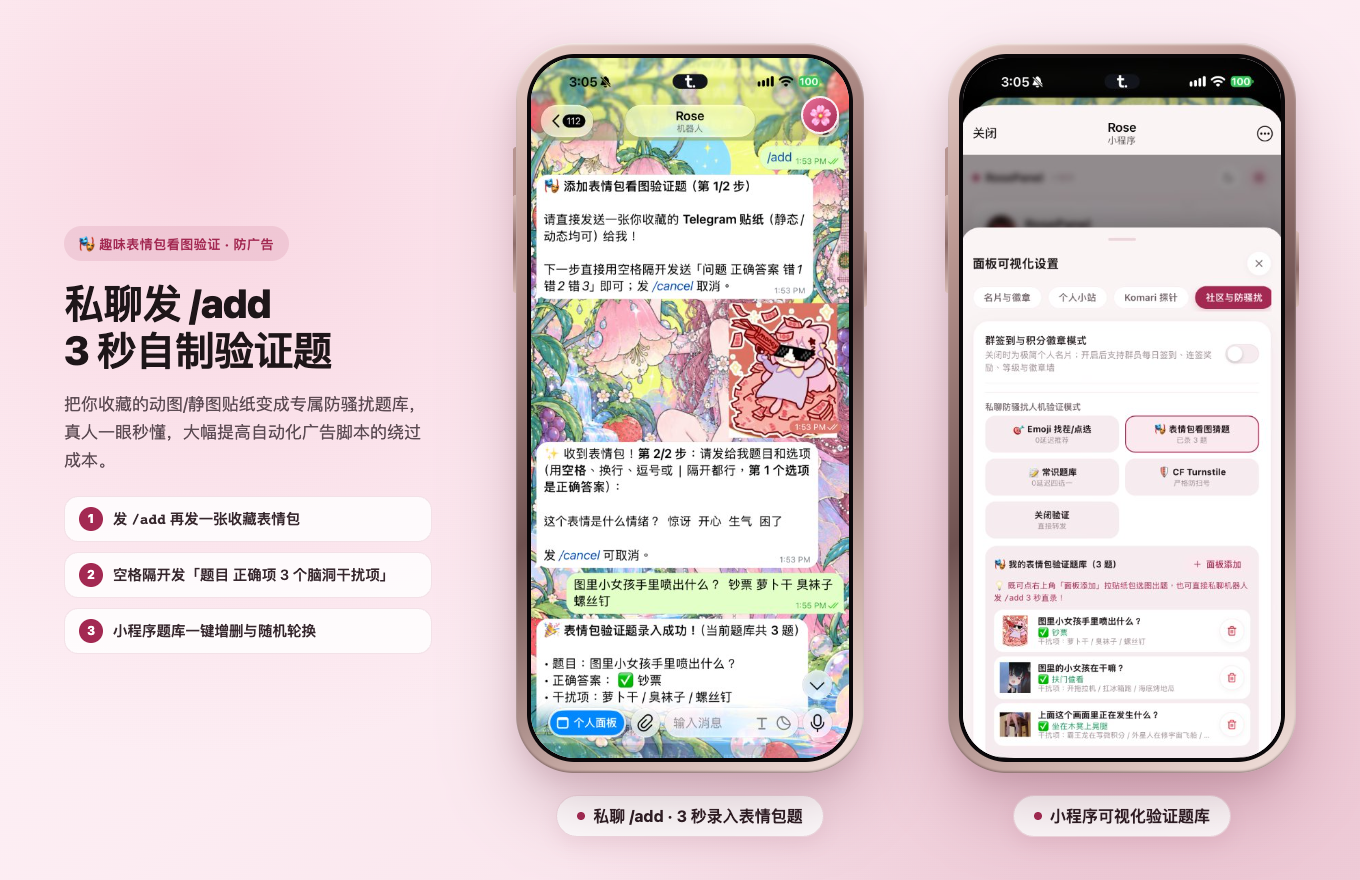
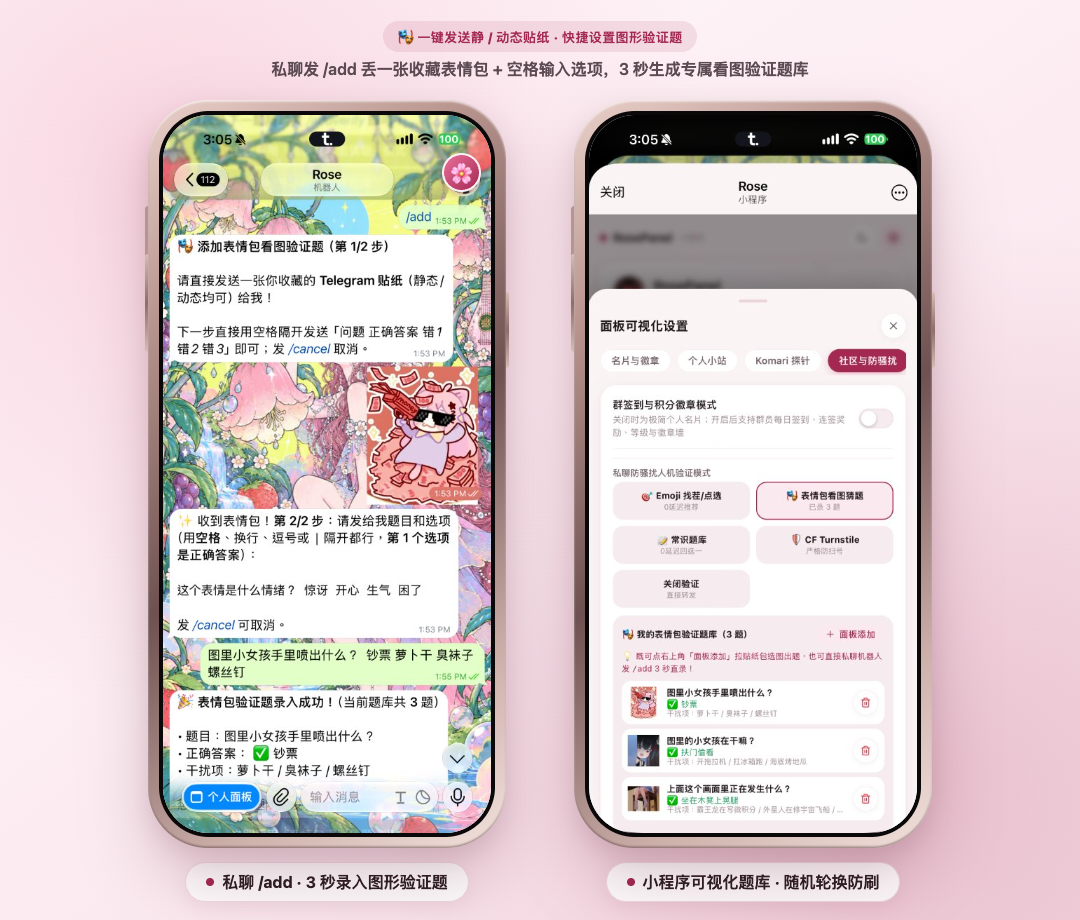
docs(showcase): upgrade to large 2-phone-per-row galleries and spotlight 4-layer anti-spam + 0s panel

diff --git a/README.md b/README.md
@@ -23,7 +23,7 @@
   </a>
 </p>
 
-<sub><b>四层防广告 Telegram 双向私聊机器人</b> — CAS 全球黑名单静默拦截 · 拒收未验证首条广告海报图 · 自定义表情包看图选择题 · 附高颜值玫瑰瓷个人面板（小站 / Komari 探针 / 访客相册），Cloudflare Workers 0 元部署</sub>
+<sub><b>四层防广告 Telegram 双向私聊机器人</b> — CAS 全球黑名单静默拦截 · 拦截未验证首条广告海报图 · 一键发送静/动态贴纸快捷设置图形题 · 附送 <b>0 秒启动个人面板</b>（小站 / Komari 探针 / 访客相册），Cloudflare Workers 0 元部署</sub>
 
 </div>
 
@@ -39,40 +39,45 @@
 
 ---
 
-## 🎭 主打亮点：自定义表情包看图防广告 & 动态贴纸徽章
+## 🎭 主打亮点：一键发静/动态贴纸设图形题 & 动态主徽章
 
 <div align="center">
-  <img src="docs/assets/showcase-antispam.png" alt="私聊 /add 3秒录表情包验证题与题库管理" width="100%" />
+  <img src="docs/assets/showcase-antispam.png" alt="一键发静/动态贴纸快捷设置图形验证题与题库管理" width="94%" />
   <br /><br />
-  <img src="docs/assets/showcase-badges.png" alt="私聊 /set 换动态贴纸主徽章与收藏徽章库" width="100%" />
+  <img src="docs/assets/showcase-badges.png" alt="私聊 /set 换动态贴纸主徽章与收藏徽章库" width="94%" />
 </div>
 
 ---
 
-## 📱 四大菜单实机画廊（名片 · 小站 · 探针 · 访客）
+## 📱 四大菜单高清实机画廊（名片 · 小站 · 探针 · 访客）
 
 <div align="center">
-  <img src="docs/assets/preview-gallery.png" alt="RosePanel Bot 四屏实机预览" width="100%" />
+  <img src="docs/assets/preview-row1.png" alt="1 名片与来信礼仪 · 2 公开与私密双层小站" width="94%" />
+  <br /><br />
+  <img src="docs/assets/preview-row2.png" alt="3 Komari 节点探针 · 4 访客与四层防广告管理" width="94%" />
 </div>
 
 ---
 
 ## ✨ 核心功能一览
 
-- **🪪 玫瑰瓷个人名片 & 0ms 可定制开屏**
-  - **个人名片模式（默认）**：分栏质感名片、在线状态胶囊、个人标签、可自定义「来信礼仪」卡片、社交链接与一键复制联系方式；支持在设置内切换 **徽章呼吸 / 表情跳动 / 卡片骨架屏** 3 种开屏风格，由 Worker 边缘注入，新访客首次冷启动也 0ms 即显，并自动融合 Telegram 原生顶栏深浅配色。
-  - **站长速览卡片（仅自己可见）**：服务端严格隔离，站长首屏直接看到 **已拦截广告次数**、**活跃/信任/封禁访客数** 与 **最近联系**，点谁直达详情。
-  - **群签到模式（设置内一键开关）**：支持群内 `/me`、`/panel`、`/checkin`、`/rank` 与小程序同步每日签到、连签奖励、7 阶等级进度条、8 枚成就徽章墙与积分榜。
-- **✨ TG 动态贴纸 / 收藏自定义表情作主徽章**
-  - 支持静态 `.webp`、动态视频 `.webm`、矢量动态 `.tgs`（Worker 边缘自动解压 60fps Lottie）与 TG Premium 自定义表情。
-  - 私聊发 `/set` 后直接发送贴纸/表情/贴纸包链接即可秒换，或在小程序设置内粘贴 `t.me/addstickers/...` 可视化挑选。
-- **🌐 公开 / 私密双层个人小站**
-  - 分类筛选、实时搜索、上下排序，单个站点一键切换 **「公开可见」** 或 **「🔒 仅我可见」**；私密站点在服务端直接过滤剔除，访客抓包不可见。
-- **📡 Komari 节点探针实时监控**
-  - 原生兼容 **Komari v2 (`/api/rpc2`)** 与 **v1 (`/api/nodes`)**，内置重定向循环保护、15 秒边缘缓存与 10 段式玫瑰在线比例条；未配置或开启 **「仅自己可见」** 时自动对访客隐藏，不点进探针 Tab 零额外请求。
-- **👤 双向私聊管理 + 往来图片相册 / 链接库 / `/bind` 一键绑群**
-  - 新建开启「话题 (Topics)」的私密通知群、拉机器人当管理员后发一句 **`/bind`** 即可秒完成绑定，**免查 `-100...` 群 ID、免手填环境变量**；
-  - 自动双向统计消息数、归档往来图片（HMAC 签名私密代理 + 全屏灯箱）与链接清单，支持私密备注、一键拉黑/永久信任/结单，以及两档快速清空聊天记录。
+- **🎭 一键发送静 / 动态贴纸，快捷设置图形验证题**
+  - 私聊机器人发 `/add` 再直接丢一张你收藏的静态/动态贴纸 + 空格输入选项，3 秒生成专属看图选择题；也支持在小程序内拉取贴纸包直接点选出题，真人一眼秒过，大幅提高自动化广告脚本的绕过成本。
+- **🛡 四层智能防广告护盾（毫秒级零卡顿）**
+  1. **第 1 层 · CAS 全球反垃圾黑名单联防**：陌生人首次联系查询公开 CAS 库（KV 缓存），**真人 0 感知秒过**，已知广告协议号直接静默拦截；
+  2. **第 2 层 · 拦截广告海报图 + 高危自动升级**：未验证前直接甩 USDT/赌场/机场纯图海报、频道转发或外链时拒收暂存，并自动升级至 Cloudflare Turnstile 严格核验；
+  3. **第 3 层 · 0 延迟图形/Emoji 验证 + 蜜罐陷阱**：支持贴纸看图验证、Emoji 找茬、常识题库与 CF Turnstile 四档切换；题底可埋设蜜罐诱饵按钮，误点直接拉黑，连错进入静默冷却；
+  4. **第 4 层 · 去混淆关键词屏蔽 + 编辑偷改监听**：自动去除零宽/全角/西里尔同形字混淆，并监听 `edited_message` 拦截「先发正常话、几秒后偷改成广告」的绕过。
+- **⚡ 附送 0 秒启动个人面板小程序 & 动态贴纸徽章**
+  - Worker 边缘 HTML 注入开屏配置（支持 **徽章呼吸 / 表情跳动 / 卡片骨架屏** 3 种风格）+ 前端本地秒开缓存 + 站长概览单键缓存（KV 消耗降 50 倍），并自动同步 Telegram 原生深浅色顶栏；
+  - 私聊发 `/set` 直接发静态 `.webp` / 动态视频 `.webm` / 60fps 矢量 `.tgs` 贴纸或自定义表情，秒换名片主徽章并自动存入收藏徽章库；
+  - 站长首屏底部附带 **仅自己可见的「站长速览」**（已拦截广告数、活跃访客数、最近联系快捷直达），并支持一键开启 **群签到积分与徽章系统**。
+- **🌐 公开 / 私密双层个人小站 & 📡 Komari 节点探针**
+  - 小站支持分类、搜索、排序与单条一键切换 **「公开 / 🔒 仅我可见」**（私密站点服务端严格剔除，访客不可见）；
+  - 探针原生兼容 **Komari v2 (`/api/rpc2`)** 与 **v1 (`/api/nodes`)**，内置重定向循环保护、15 秒边缘缓存与 **「仅自己可见」** 隐私开关，不点进探针 Tab 零额外请求。
+- **💬 群内 `/bind` 一键绑通知群 + 双向图片相册 / 链接归档**
+  - 新建开启「话题 (Topics)」的私密群、把机器人设为管理员后在群里发一句 **`/bind`** 即可完成绑定，**免查 `-100...` 群 ID、免手填环境变量**；
+  - 自动双向统计消息数、归档往来图片（HMAC 签名私密代理 + 灯箱）与链接清单，支持备注、一键拉黑/永久信任/结单及两档清空记录。
 
 ---
 
